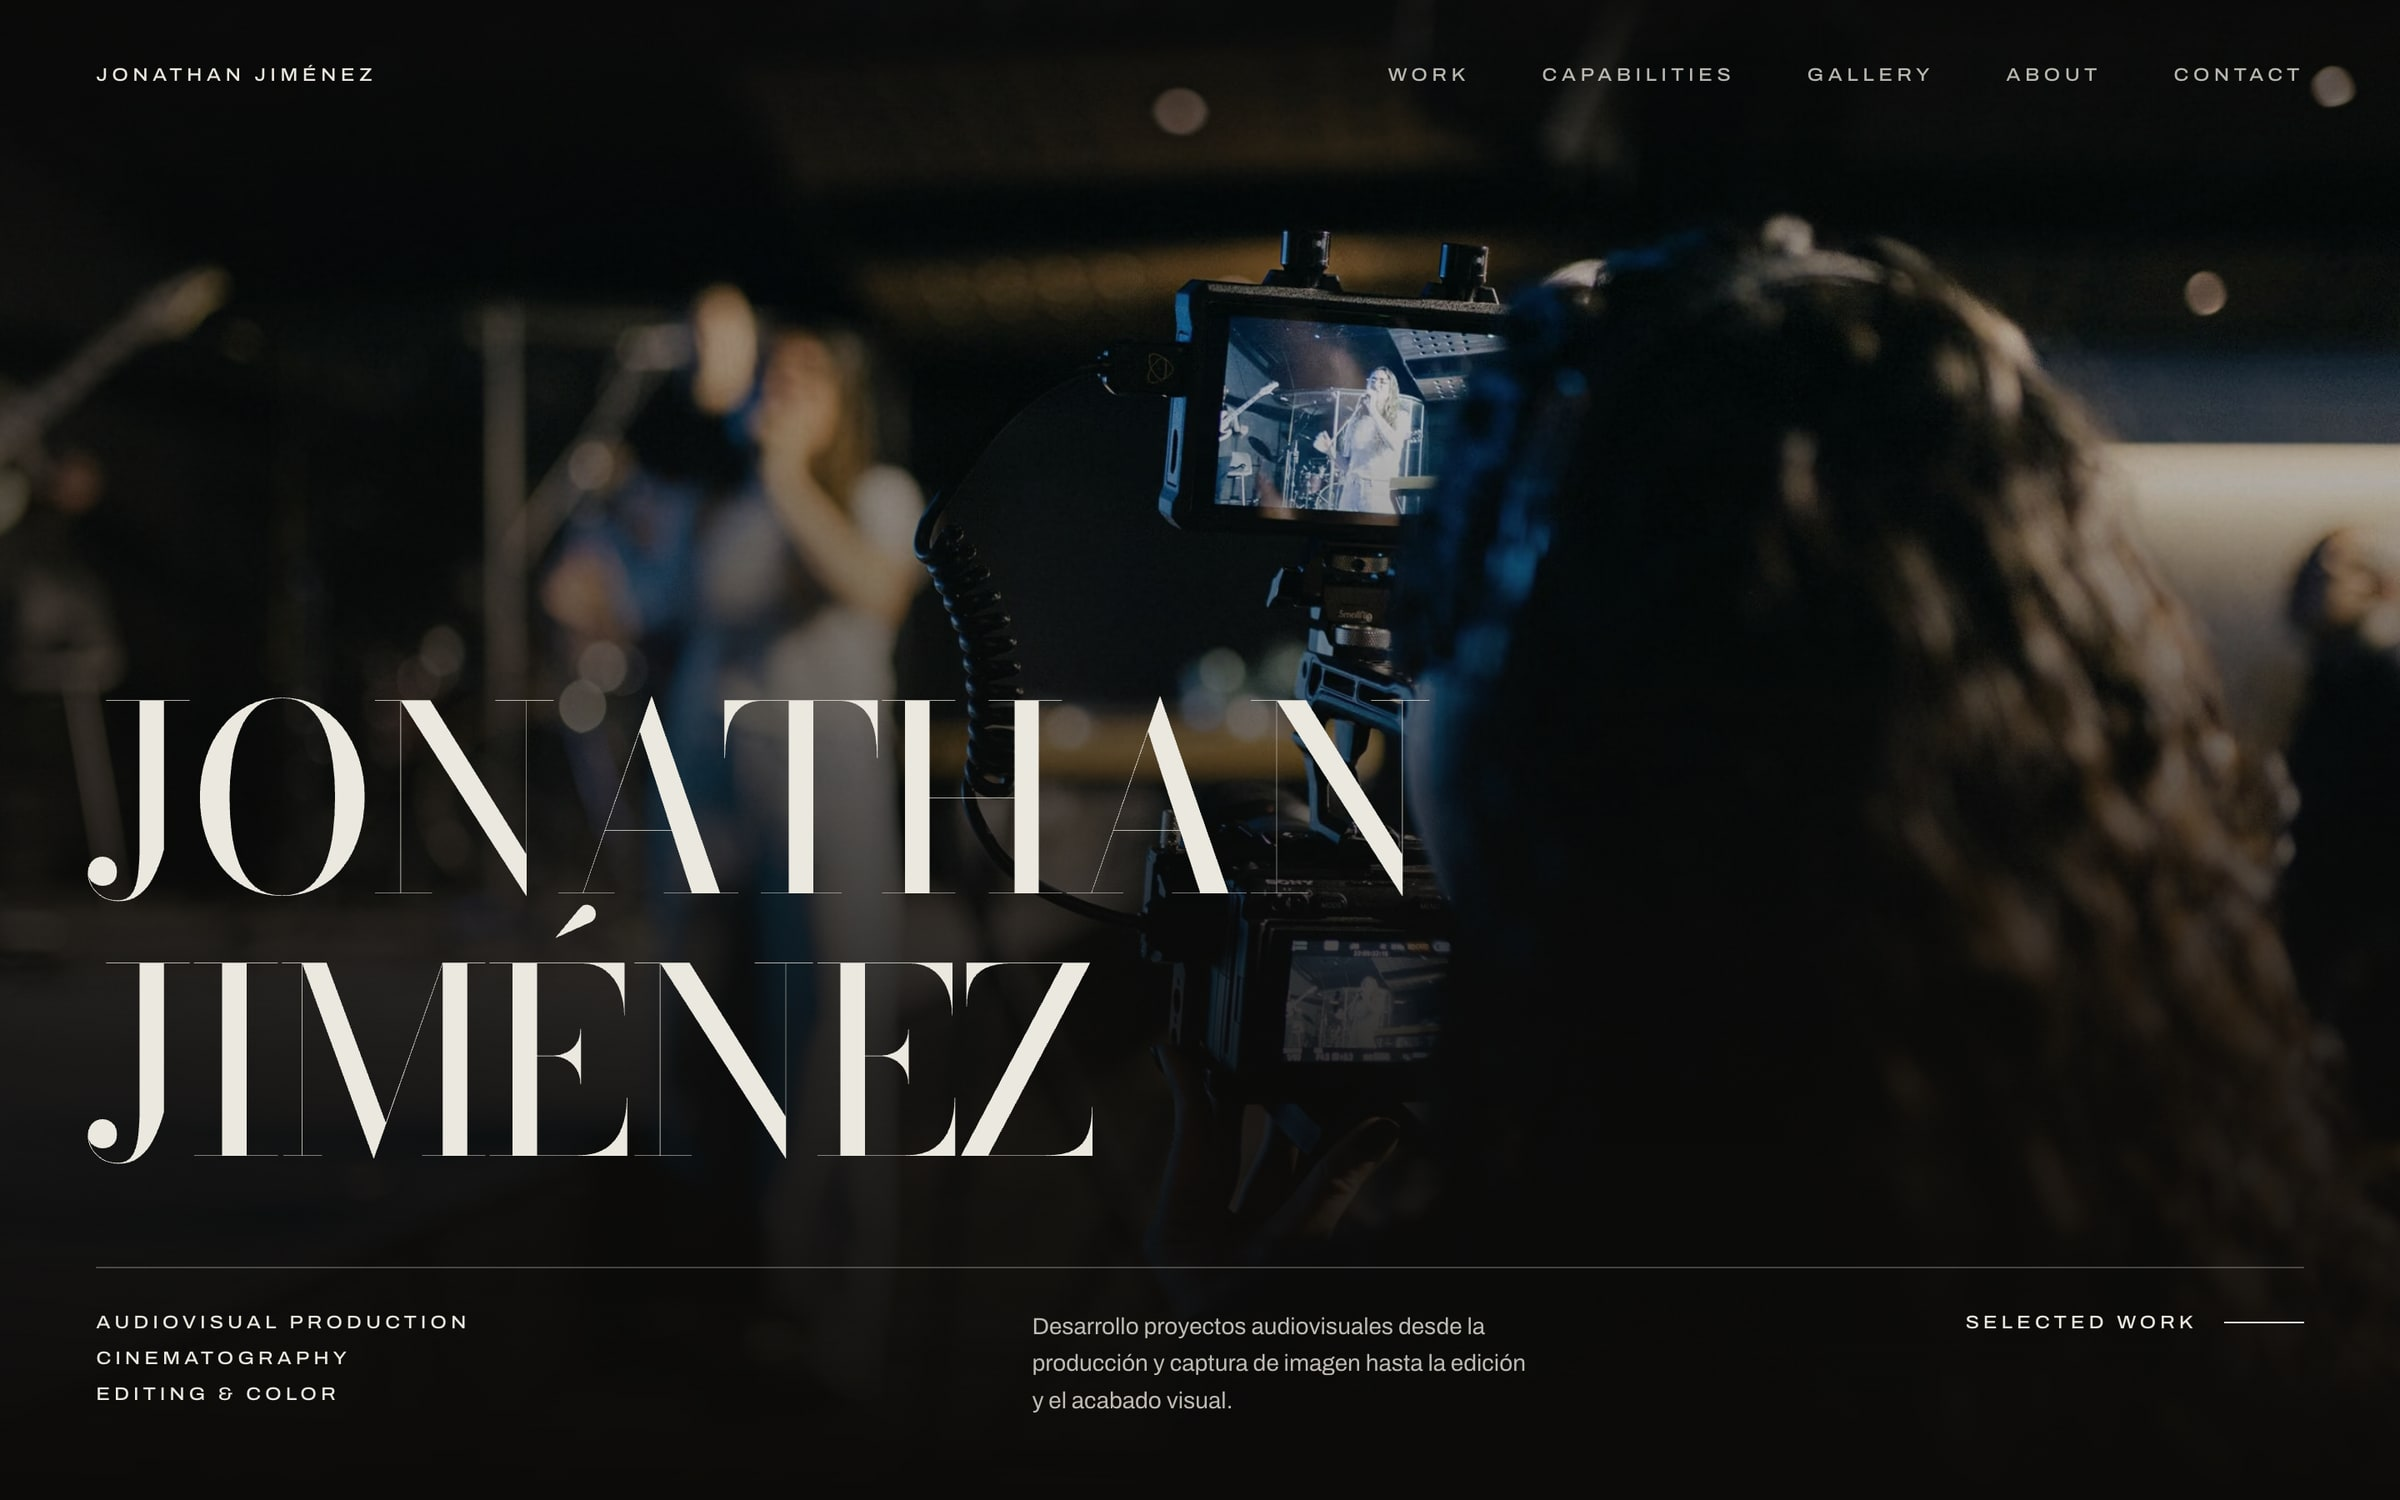
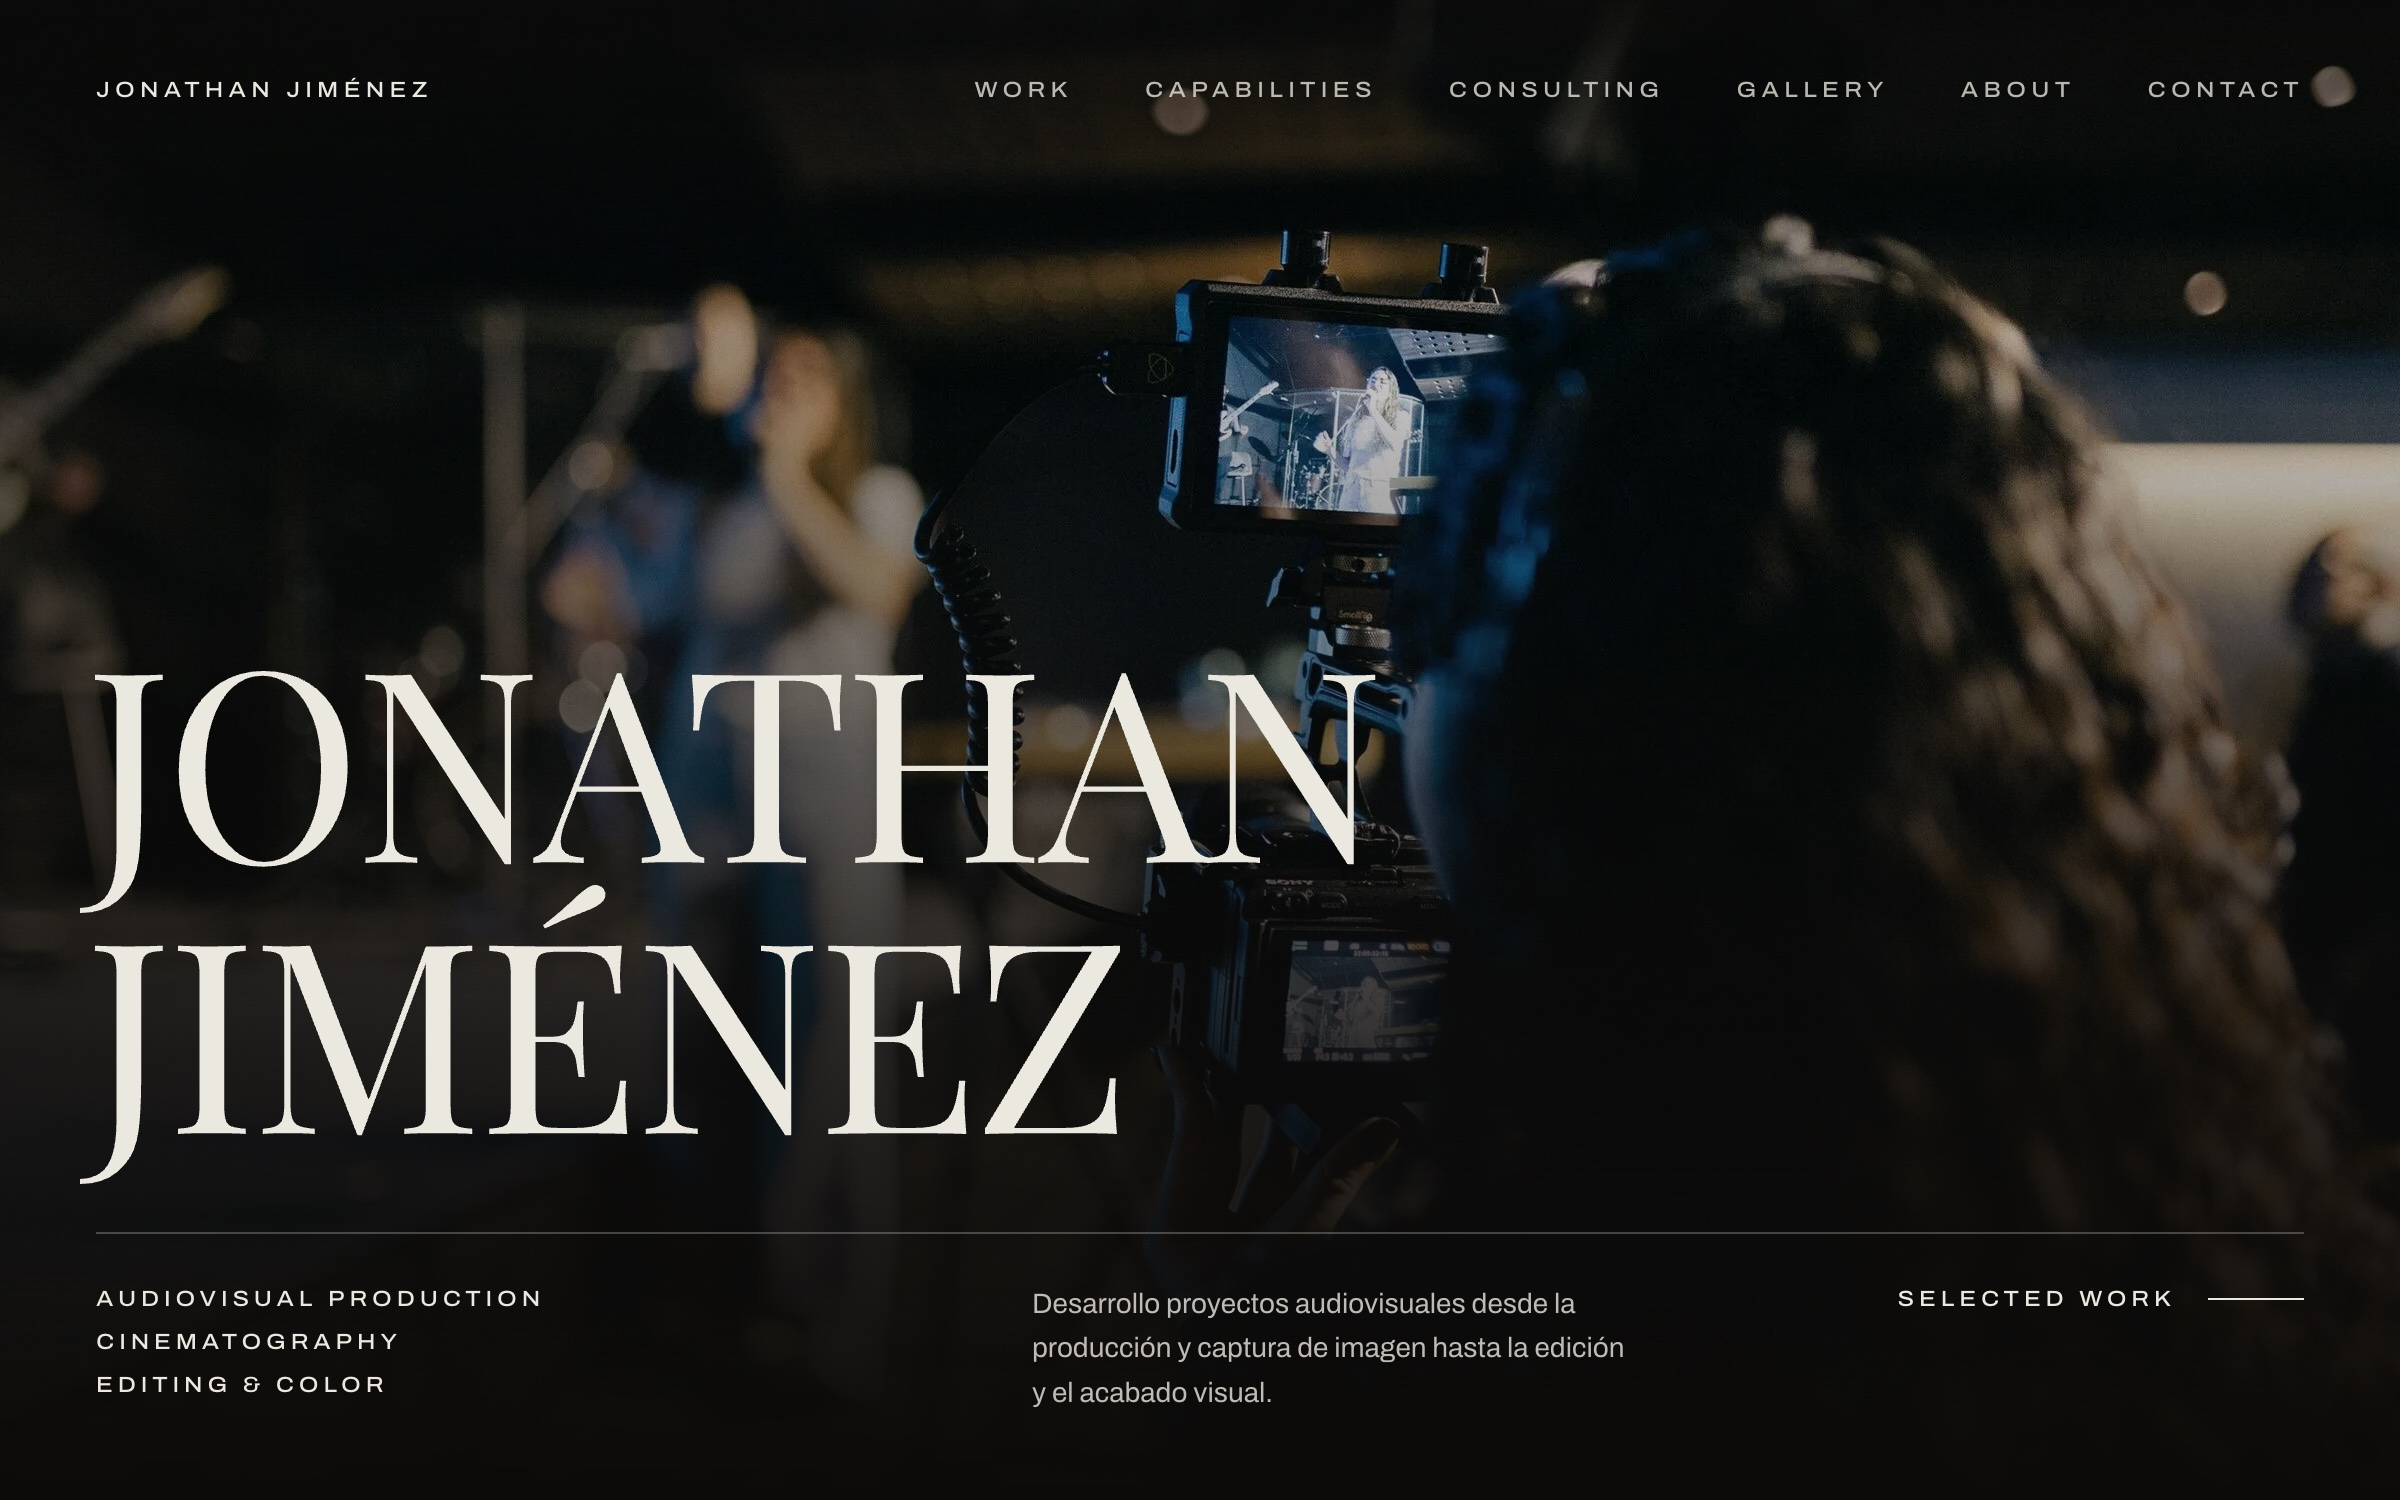
chore: point audiovisual project to visuals.jjimenez.net
Update the project URL from video.jjimenez.net to visuals.jjimenez.net
and refresh the cover screenshot with the site's new design.

diff --git a/src/content/projects/es/audiovisual-portfolio.md b/src/content/projects/es/audiovisual-portfolio.md
@@ -6,7 +6,7 @@ summary: Mi sitio personal de producción audiovisual, cinematografía, edición
 kind: personal-project
 role: Diseño, desarrollo y contenido
 stack: [Astro]
-url: https://video.jjimenez.net/
+url: https://visuals.jjimenez.net/
 cover: ../../../assets/projects/audiovisual-portfolio.jpg
 coverAlt: "Hero del portafolio audiovisual: «Jonathan Jiménez» en tipografía de gran formato sobre una fotografía oscura de un operador de cámara grabando una presentación musical en vivo."
 order: 7

diff --git a/src/content/projects/en/audiovisual-portfolio.md b/src/content/projects/en/audiovisual-portfolio.md
@@ -6,7 +6,7 @@ summary: My personal website for audiovisual production, cinematography, editing
 kind: personal-project
 role: Design, development and content
 stack: [Astro]
-url: https://video.jjimenez.net/
+url: https://visuals.jjimenez.net/
 cover: ../../../assets/projects/audiovisual-portfolio.jpg
 coverAlt: "Hero of the audiovisual portfolio: “Jonathan Jiménez” in large display type over a dark photograph of a camera operator filming a live music performance."
 order: 7

diff --git a/docs/context/05_CONTENT_SOURCE_OF_TRUTH.md b/docs/context/05_CONTENT_SOURCE_OF_TRUTH.md
@@ -161,7 +161,7 @@ Mostrar solo proyectos seleccionados, no los 30 repositorios públicos.
 
 ### Audiovisual Portfolio
 
-- URL: https://video.jjimenez.net/
+- URL: https://visuals.jjimenez.net/
 - Sitio personal de producción audiovisual, cinematografía, edición y color grading.
 - Contenido: REINO 2026, Live Worship Album, Basileia CEM media/production, transmisiones y trabajos audiovisuales.
 - Categoría: Audiovisual Portfolio / Personal Brand Website.
